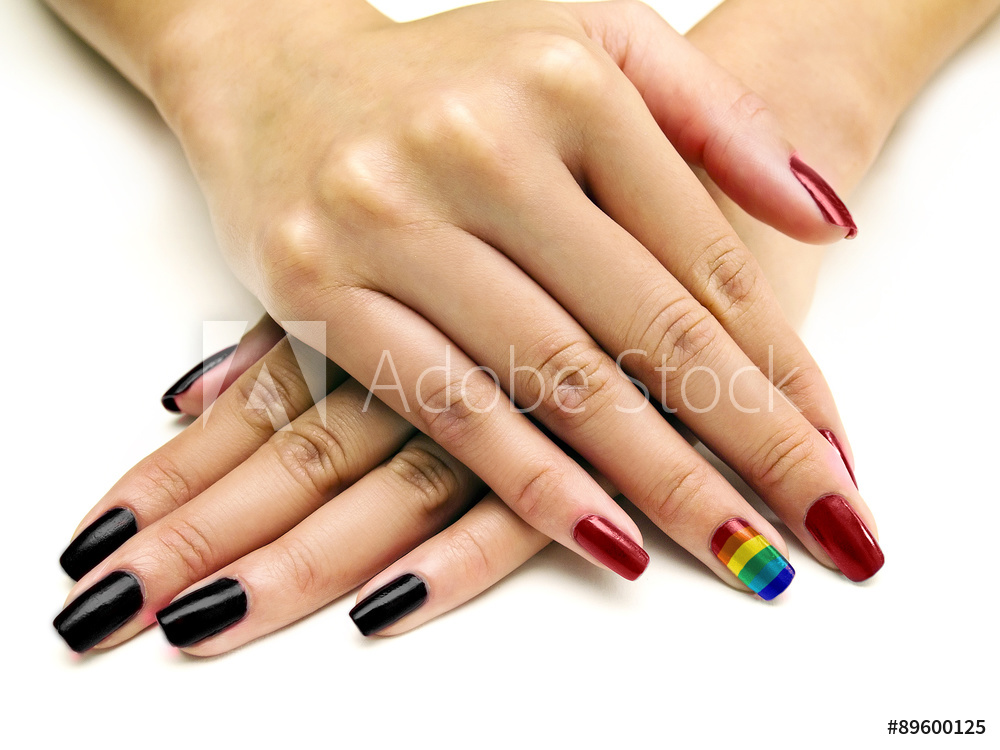
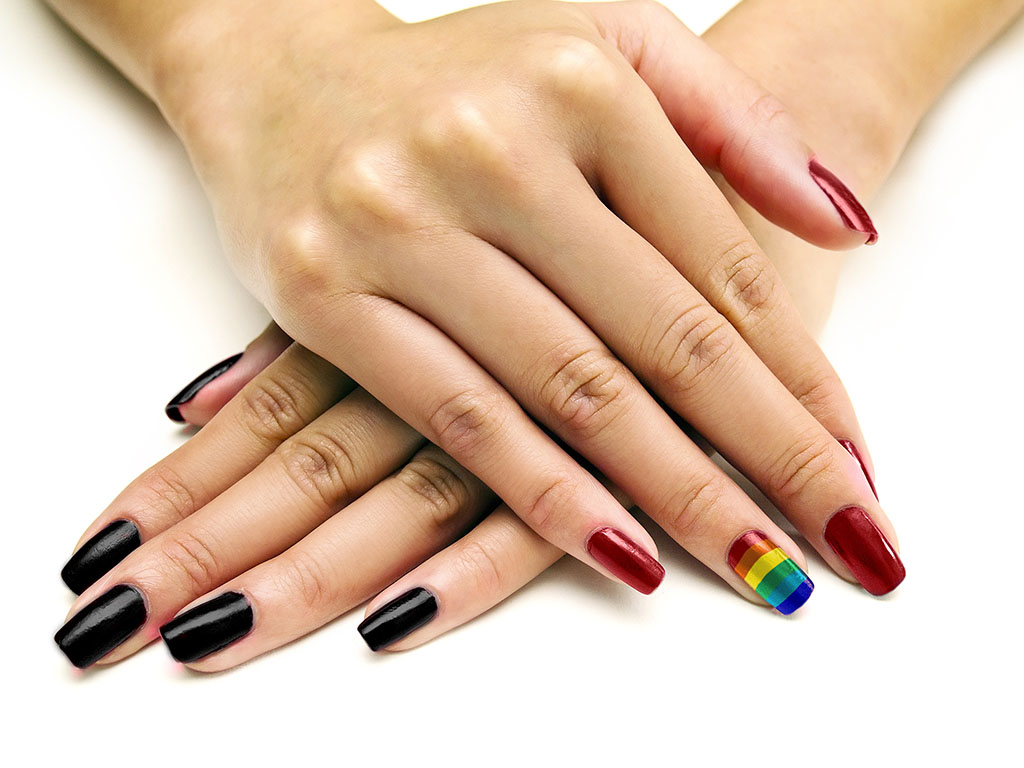
change all carousel images to optimised images

diff --git a/index.html b/index.html
@@ -71,7 +71,7 @@
 
           <div class="carousel-item">
             <img class="second-slide" alt="Range of nail varnish bottles"
-            src="images/carousel4.jpeg">
+            src="images/carousel2.jpeg">
             <div class="container">
               <div class="carousel-caption">
 
